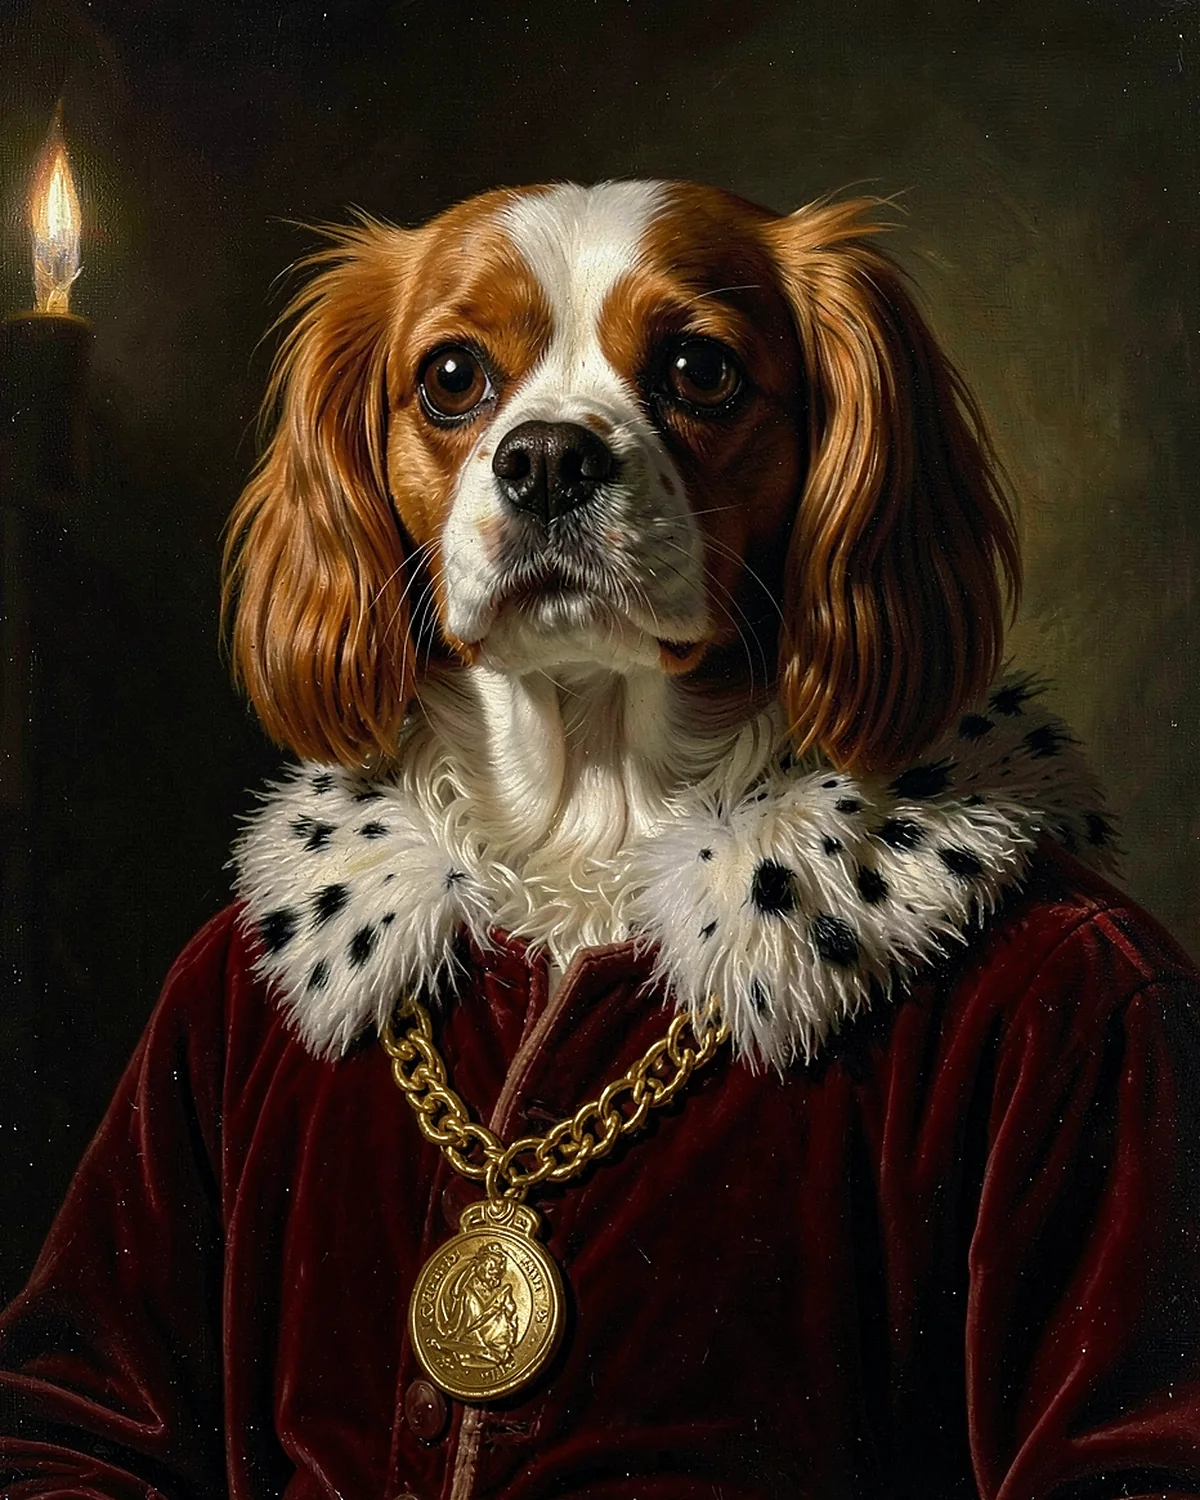
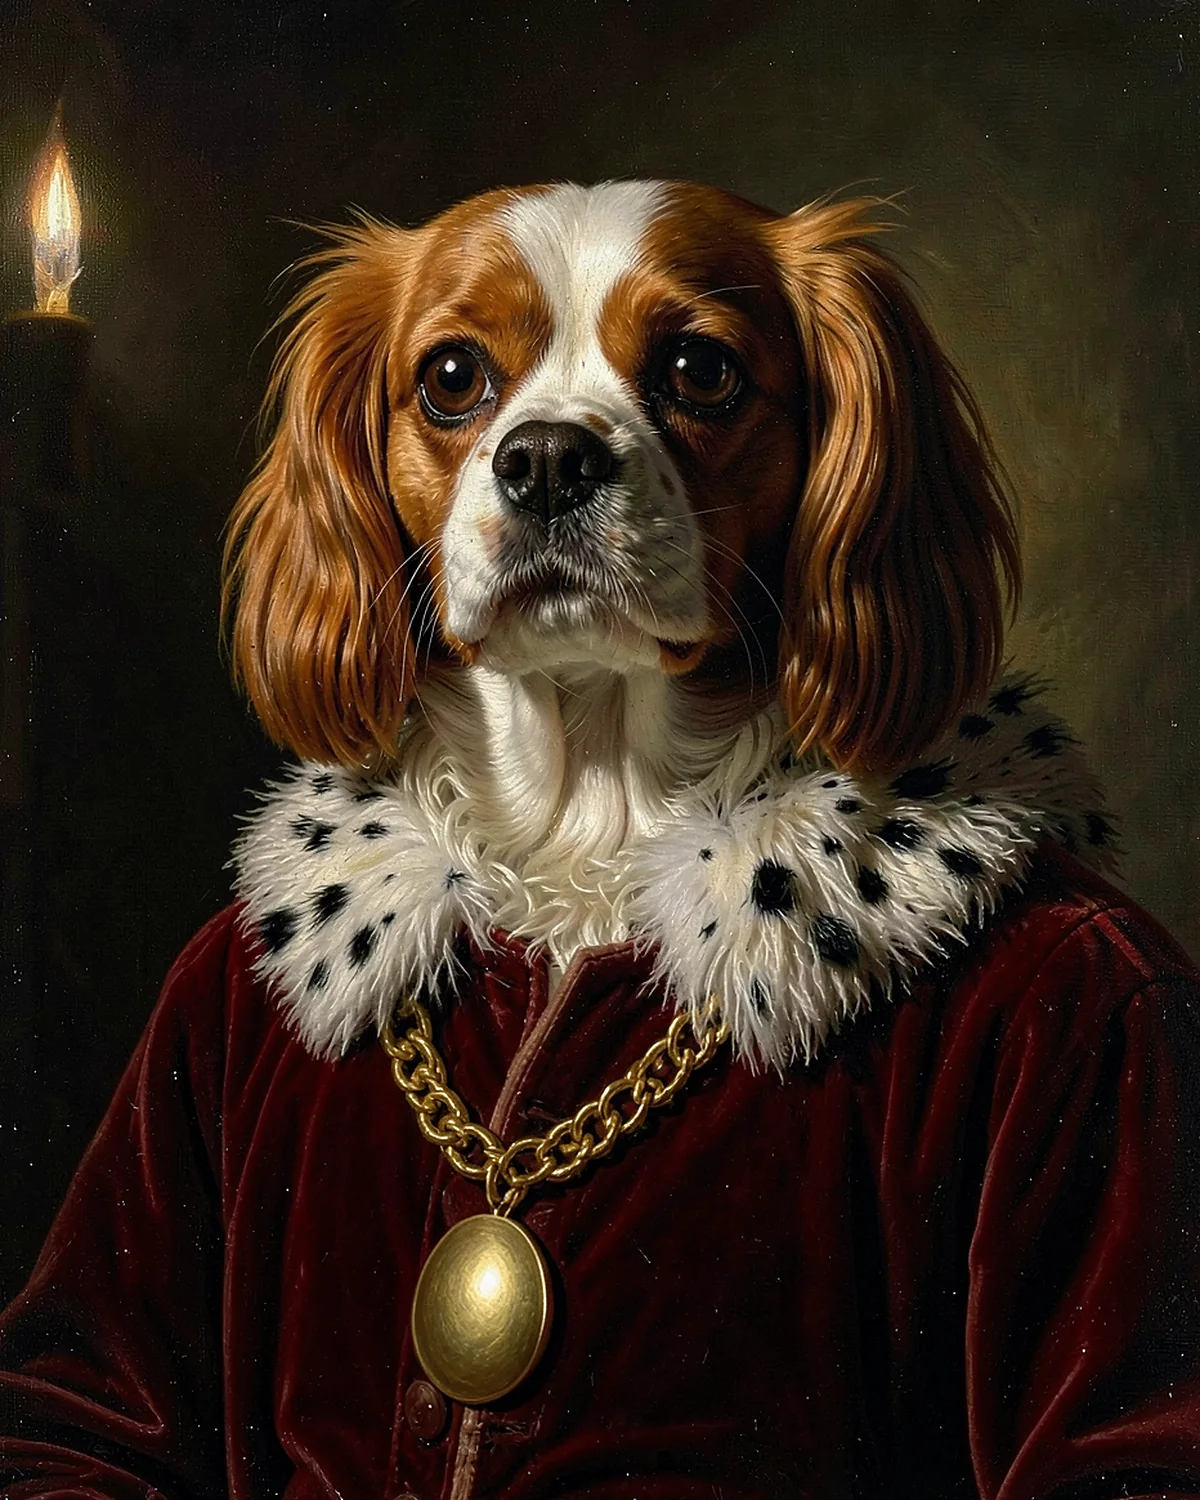
Hero portrait: replace engraved medallion with a plain gold pendant (inpaint)
Claude-Session: https://claude.ai/code/session_01Q1G9K9iUNWePoTgYQBX8an

Changed region(s): [[0.3392, 0.7973, 0.4933, 0.9507]]

diff --git a/web/public/samples/CREDITS.md b/web/public/samples/CREDITS.md
@@ -16,6 +16,8 @@ text or jewellery, no watermarks).
     the same Apache-2.0 license.
 - **Text encoder:** Qwen3-4B (`Qwen/Qwen3-4B`, as bundled in the FLUX.2-klein-4B repository), **Apache-2.0**
   (https://huggingface.co/Qwen/Qwen3-4B).
+- **Retouching:** on royal.webp the medallion was re-rendered with the same model's inpainting pipeline
+  (`Flux2KleinInpaintPipeline`, masked to the pendant only) to replace engraved pseudo-lettering with a plain gold pendant.
 - **Finishing:** cropped 1.5% at the edges (removes the faint painted canvas edge), Lanczos resize to
   1200×1500, light unsharp mask, WebP quality 84 (Pillow).
 - Style prompts are adapted from `STYLES[].prompt` in `web/src/lib/catalog.ts`.
